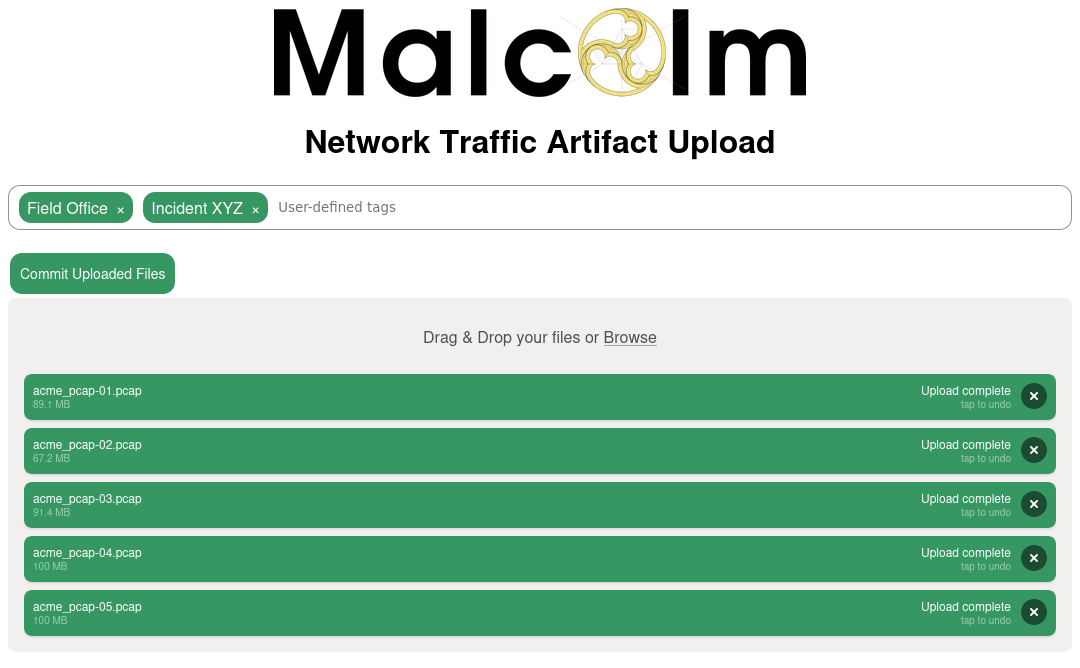
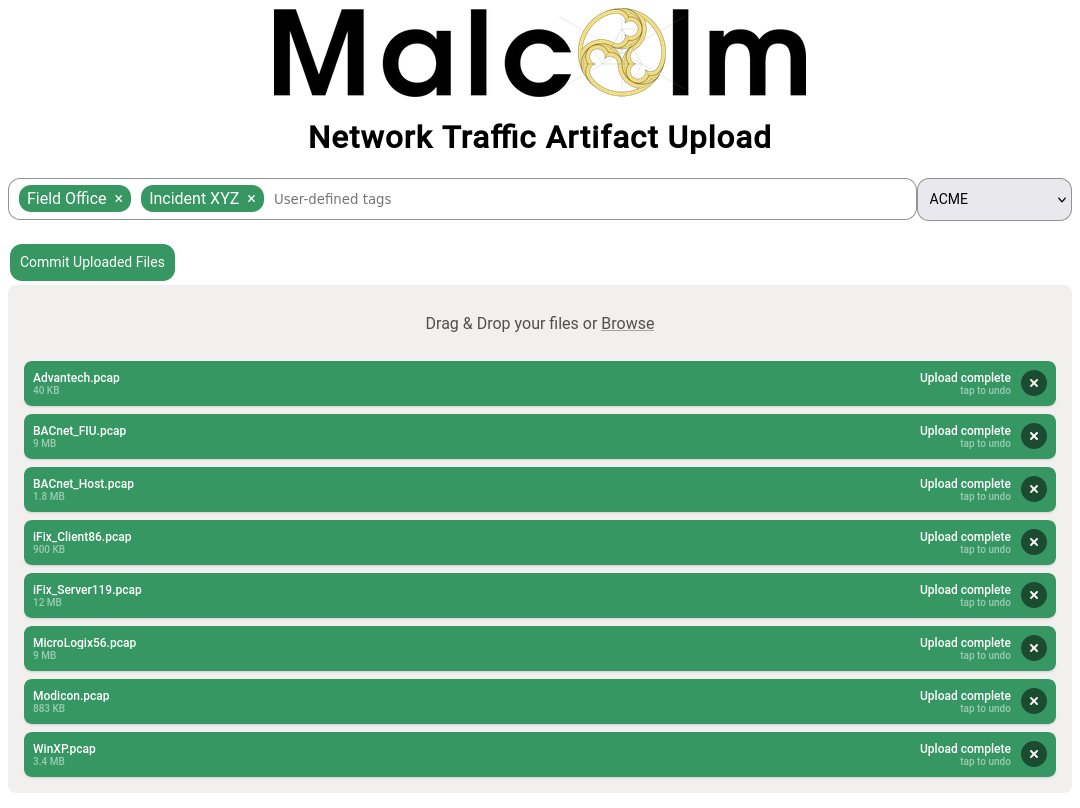
work in progress for idaholab/Malcolm#449, documentation updates

diff --git a/docs/upload.md b/docs/upload.md
@@ -2,7 +2,7 @@
 
 * [Network traffic artifact upload](#Upload)
     - [Tagging](#Tagging)
-    - [Processing uploaded PCAPs with Zeek and Suricata](#UploadPCAPProcessors)
+    - [NetBox site](#UploadNetBoxSite)
 
 Malcolm serves a web browser-based upload form for uploading PCAP files and Zeek logs at **https://localhost/upload/** if connecting locally.
 
@@ -26,3 +26,7 @@ Files uploaded via these methods are monitored and moved automatically to other 
 In addition to being processed for uploading, Malcolm events will be tagged according to the components of the filenames of the PCAP files or Zeek log archives files from which the events were parsed. For example, records created from a PCAP file named `ACME_Scada_VLAN10.pcap` would be tagged with `ACME`, `Scada`, and `VLAN10`. Tags are extracted from filenames by splitting on the characters `,` (comma), `-` (dash), and `_` (underscore). These tags are viewable and searchable (via the `tags` field) in Arkime and OpenSearch Dashboards. This behavior can be changed by modifying the `AUTO_TAG` [environment variable in `upload-common.env`](malcolm-config.md#MalcolmConfigEnvVars).
 
 Tags may also be specified manually with the [browser-based upload form](#Upload).
+
+## <a name="NetBox"></a>NetBox site
+
+If NetBox was enabled during [configuration](malcolm-hedgehog-e2e-iso-install.md#MalcolmConfig), users may specify a NetBox [site](https://demo.netbox.dev/static/docs/core-functionality/sites-and-racks/) to associate the uploaded PCAP data using the dropdown to the right of the Tags input. See [**Asset Interaction Analysis**](asset-interaction-analysis.md#AssetInteractionAnalysis) for more information about NetBox.

diff --git a/docs/asset-interaction-analysis.md b/docs/asset-interaction-analysis.md
@@ -51,7 +51,7 @@ As Zeek logs and Suricata alerts are parsed and enriched (if the `NETBOX_ENRICHM
 
 For Malcolm's purposes, both physical devices and virtualized hosts will be stored as described above: the `device_type` field can be used to distinguish between them.
 
-NetBox has the concept of [sites](https://demo.netbox.dev/static/docs/core-functionality/sites-and-racks/). Sites can have overlapping IP address ranges. The site to associate with network traffic can be specified when [PCAP is uploaded](upload.md#Upload) or when configuring [live analysis](live-analysis.md#LiveAnalysis). If not otherwise specified, the value of the `NETBOX_DEFAULT_SITE` variable in [environment variable in `netbox-common.env`](malcolm-config.md#MalcolmConfigEnvVars) will be used for these enrichment lookups.
+NetBox has the concept of [sites](https://demo.netbox.dev/static/docs/core-functionality/sites-and-racks/). Sites can have overlapping IP address ranges. The site to associate with network traffic can be specified when [PCAP is uploaded](upload.md#Upload), when configuring [live analysis](live-analysis.md#LiveAnalysis), and when [configuring forwarding from Hedgehog Linux](malcolm-hedgehog-e2e-iso-install.md#Hedgehogfilebeat). If not otherwise specified, the value of the `NETBOX_DEFAULT_SITE` variable in [environment variable in `netbox-common.env`](malcolm-config.md#MalcolmConfigEnvVars) will be used for these enrichment lookups.
 
 ## <a name="NetBoxCompare"></a>Compare and highlight discrepancies between NetBox inventory and observed network traffic
 

diff --git a/docs/malcolm-hedgehog-e2e-iso-install.md b/docs/malcolm-hedgehog-e2e-iso-install.md
@@ -558,7 +558,11 @@ To configure filebeat, first provide the log path (the same path previously conf
 
 Users must also provide the IP address of the Logstash instance to which the logs are to be forwarded, and the port on which Logstash is listening. These logs are forwarded using the Beats protocol, generally over port 5044. Depending on network configuration, users may need to open a firewall port to allow this connection from the sensor to the aggregator.
 
-![Configure filebeat for log forwrading](./images/hedgehog/images/filebeat_ip_port.png)
+![Configure filebeat for log forwarding](./images/hedgehog/images/filebeat_ip_port.png)
+
+Users may specify a NetBox [site](https://demo.netbox.dev/static/docs/core-functionality/sites-and-racks/) to associate with the network traffic metadata forwarded to Malcolm by this sensor. See [**Asset Interaction Analysis**](asset-interaction-analysis.md#AssetInteractionAnalysis) for more information about NetBox.
+
+![NetBox site](./images/hedgehog/images/filebeat_site_config.png)
 
 Next users will be asked whether the connection used for log forwarding should be done **unencrypted** or over **SSL**. Unencrypted communication requires less processing overhead and is simpler to configure, but the contents of the logs may be visible to anyone able to intercept that traffic.
 

diff --git a/docs/README.md b/docs/README.md
@@ -52,7 +52,7 @@ Malcolm can also easily be deployed locally on an ordinary consumer workstation 
     - [Temporary read-only interface](running.md#ReadOnlyUI)
 * [Network traffic artifact upload](upload.md#Upload)
     - [Tagging](upload.md#Tagging)
-    - [Processing uploaded PCAPs with Zeek and Suricata](upload.md#UploadPCAPProcessors)
+    - [NetBox site](upload.md#UploadNetBoxSite)
 * [Live analysis](live-analysis.md#LiveAnalysis)
     - [Using a network sensor appliance](live-analysis.md#Hedgehog)
     - [Monitoring local network interfaces](live-analysis.md#LocalPCAP)
